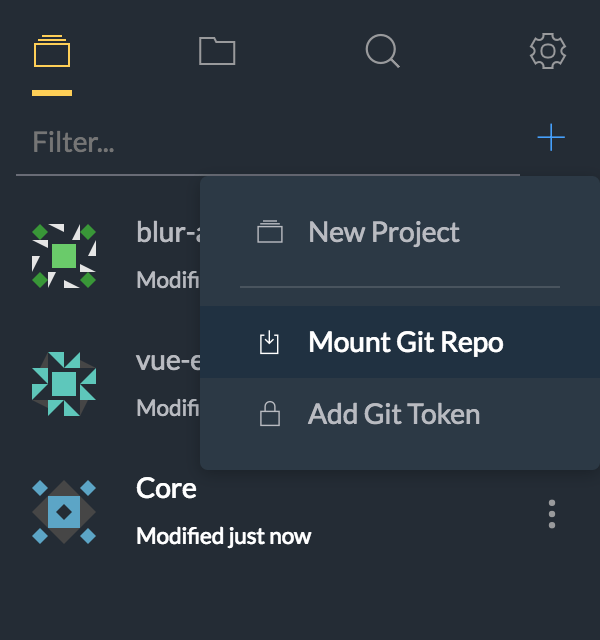
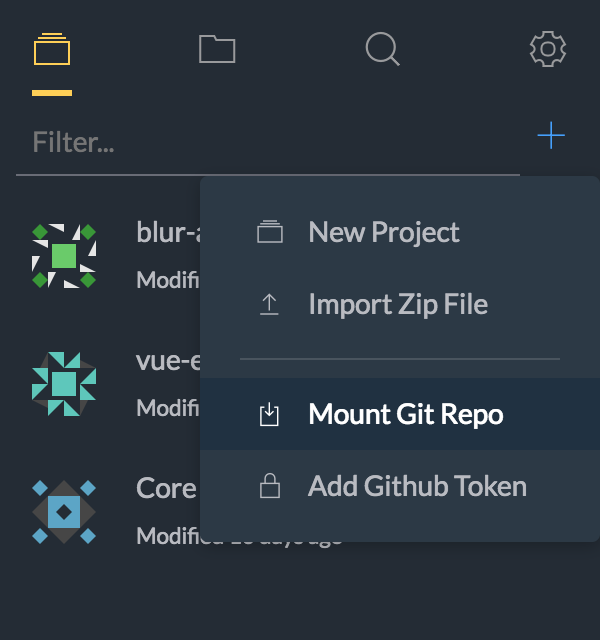
add import/export section

diff --git a/docs/getting-started.md b/docs/getting-started.md
@@ -65,7 +65,7 @@ To import a repository from Github into the editor, first select the "__Mount Gi
 
 You will be presented with a prompt to enter the url of the repository to import.
 
-*__If you are importing a large project with more than ~20 or so files, please add a Github token. Github API limits will prevent the project from being imported! To add a Github token please see the section [Adding a Personal Github Token](/git-features.html#adding-a-personal-github-token).__*
+*__If you are importing a large project with more than ~20 or so files, please add a Github token. Github API limits will prevent the project from being imported! To add a Github token please see the section [Adding a Personal Github Token](/git-features/#adding-a-personal-github-token).__*
 
 In the example, we are using the Spoon Knife repository (https://github.com/octocat/Spoon-Knife).
 
@@ -73,7 +73,7 @@ In the example, we are using the Spoon Knife repository (https://github.com/octo
 
 Click "__OK__" to proceed to fetch the latest copy of the branch from Github. Note this will not clone the entire repository. Instead only the latest commit tree of the branch will be downloaded to the editor.
 
-*__If you get an error, it probably means you have exceeded your Github API limit usage. You can add your personal Github token following the instructions [here](/git-features.html#adding-a-personal-github-token).__*
+*__If you get an error, it probably means you have exceeded your Github API limit usage. You can add your personal Github token following the instructions [here](/git-features/#adding-a-personal-github-token).__*
 
 <img width="442" src="../img/getting-started/mount-github-repo-3.png">
 
@@ -81,7 +81,7 @@ Your cloned Github Repo should appear in the "Projects" tab.
 
 <img width="300" src="../img/getting-started/mount-github-repo-4.png">
 
-You can switch branches as well. To see details on how to do that, please refer to the section [Changing Git Branches](/git-features.html#changing-git-branches).
+You can switch branches as well. To see details on how to do that, please refer to the section [Changing Git Branches](/git-features/#changing-git-branches).
 
 ---
 

diff --git a/docs/importing-exporting.md b/docs/importing-exporting.md
@@ -1,0 +1,36 @@
+# Importing & Exporting
+
+Currently, the only way to import an existing project is through Github or a local zip file. However, integration with additional Git providers and third-party providers, such as Gitlab and Dropbox are on the roadmap. For now, exporting and importing zip files offer a convenient means of transfering your projects around without having to use Github.
+
+## Import Zip Archive
+
+To import a zip file with your project contained within, select the option "__Import Zip File__" from the menu in the "Projects" tab.
+
+<img width="300" src="../img/index/import-zip.png">
+
+In the prompt that appears, enter a new project name for the imported zip archive.
+
+<img width="442" src="../img/importing-exporting/import-0.png">
+
+After clicking "__OK__" to continue, the imported files should appear in your new project.
+
+## Export Zip Archive
+
+To export your project select the "__Export Zip__" option from either the menu in the "Files" or "Projects" tab.
+
+<img width="300" src="../img/importing-exporting/export-0.png">
+<img width="300" src="../img/importing-exporting/export-1.png">
+
+After doing so, enter the name of the zip file that will be saved to your default "Downloads" location.
+
+<img width="442" src="../img/importing-exporting/export-2.png">
+
+After clicking "__OK__", the download for your zip file should begin.
+
+<script async src="https://www.googletagmanager.com/gtag/js?id=UA-124804584-3"></script>
+<script>
+window.dataLayer = window.dataLayer || [];
+function gtag(){dataLayer.push(arguments);}
+gtag('js', new Date());
+gtag('config', 'UA-124804584-3');
+</script>

diff --git a/docs/git-features.md b/docs/git-features.md
@@ -1,6 +1,6 @@
 # Git Features
 
-Github currently is the only way of exporting projects from the editor. Although other ways of exporting such as to shared drives is planned for the future.
+Github currently is one of the main ways of exporting projects from the editor. (For other ways of exporting your work, see section on [Importing & Exporting](/importing-exporting/)) Although other ways of exporting such as to shared drives is planned for the future.
 
 Right now Github is the only supported git repository provider by this editor. This document tries to summarize the git integration that is already available int he editor.
 
@@ -24,7 +24,7 @@ Right now Github is the only supported git repository provider by this editor. T
 
 ### Mounting a Github Repo
 
-The process of mounting a Github repo has already been covered in the section [Import a Github Repo](/getting-started.html#import-a-github-repo). It will not be covered here; note that it is recommended to [add a Github personal token](#github-token) to allow for mounting of bigger repositories as well as to increase your daily usage limits of Github's APIs.
+The process of mounting a Github repo has already been covered in the section [Import a Github Repo](/getting-started/#import-a-github-repo). It will not be covered here; note that it is recommended to [add a Github personal token](#github-token) to allow for mounting of bigger repositories as well as to increase your daily usage limits of Github's APIs.
 
 ### Pulling Remote Changes
 

diff --git a/docs/index.md b/docs/index.md
@@ -54,6 +54,13 @@ File diffing is an awesome feature that any great code editor with git integrati
 
 <img width="475" src="img/index/diff.png">
 
+### Import & Export Zip
+
+An alternative to Github commits is exporting your project as a zip file. You can transfer your project to another device by the reverse operation of importing. Note that the exported file may have Unix-style newlines (meaning a single "\n" character instead of "\r\n", however, any proper code editor should handle this automatically in Windows.
+
+<img width="300" src="img/index/import-zip.png">
+<img width="300" src="img/index/import-zip-dark.png">
+
 ### Search
 
 Project-wide code searching is a useful tool for any JavaScript development. Navigating between files by keywords and refactoring are all made easier with an awesome fast search feature. There's still room to improve with the editor's search, so we need your [feedback](https://github.com/spckio/spck-issues) on any ideas to improve the editor!
